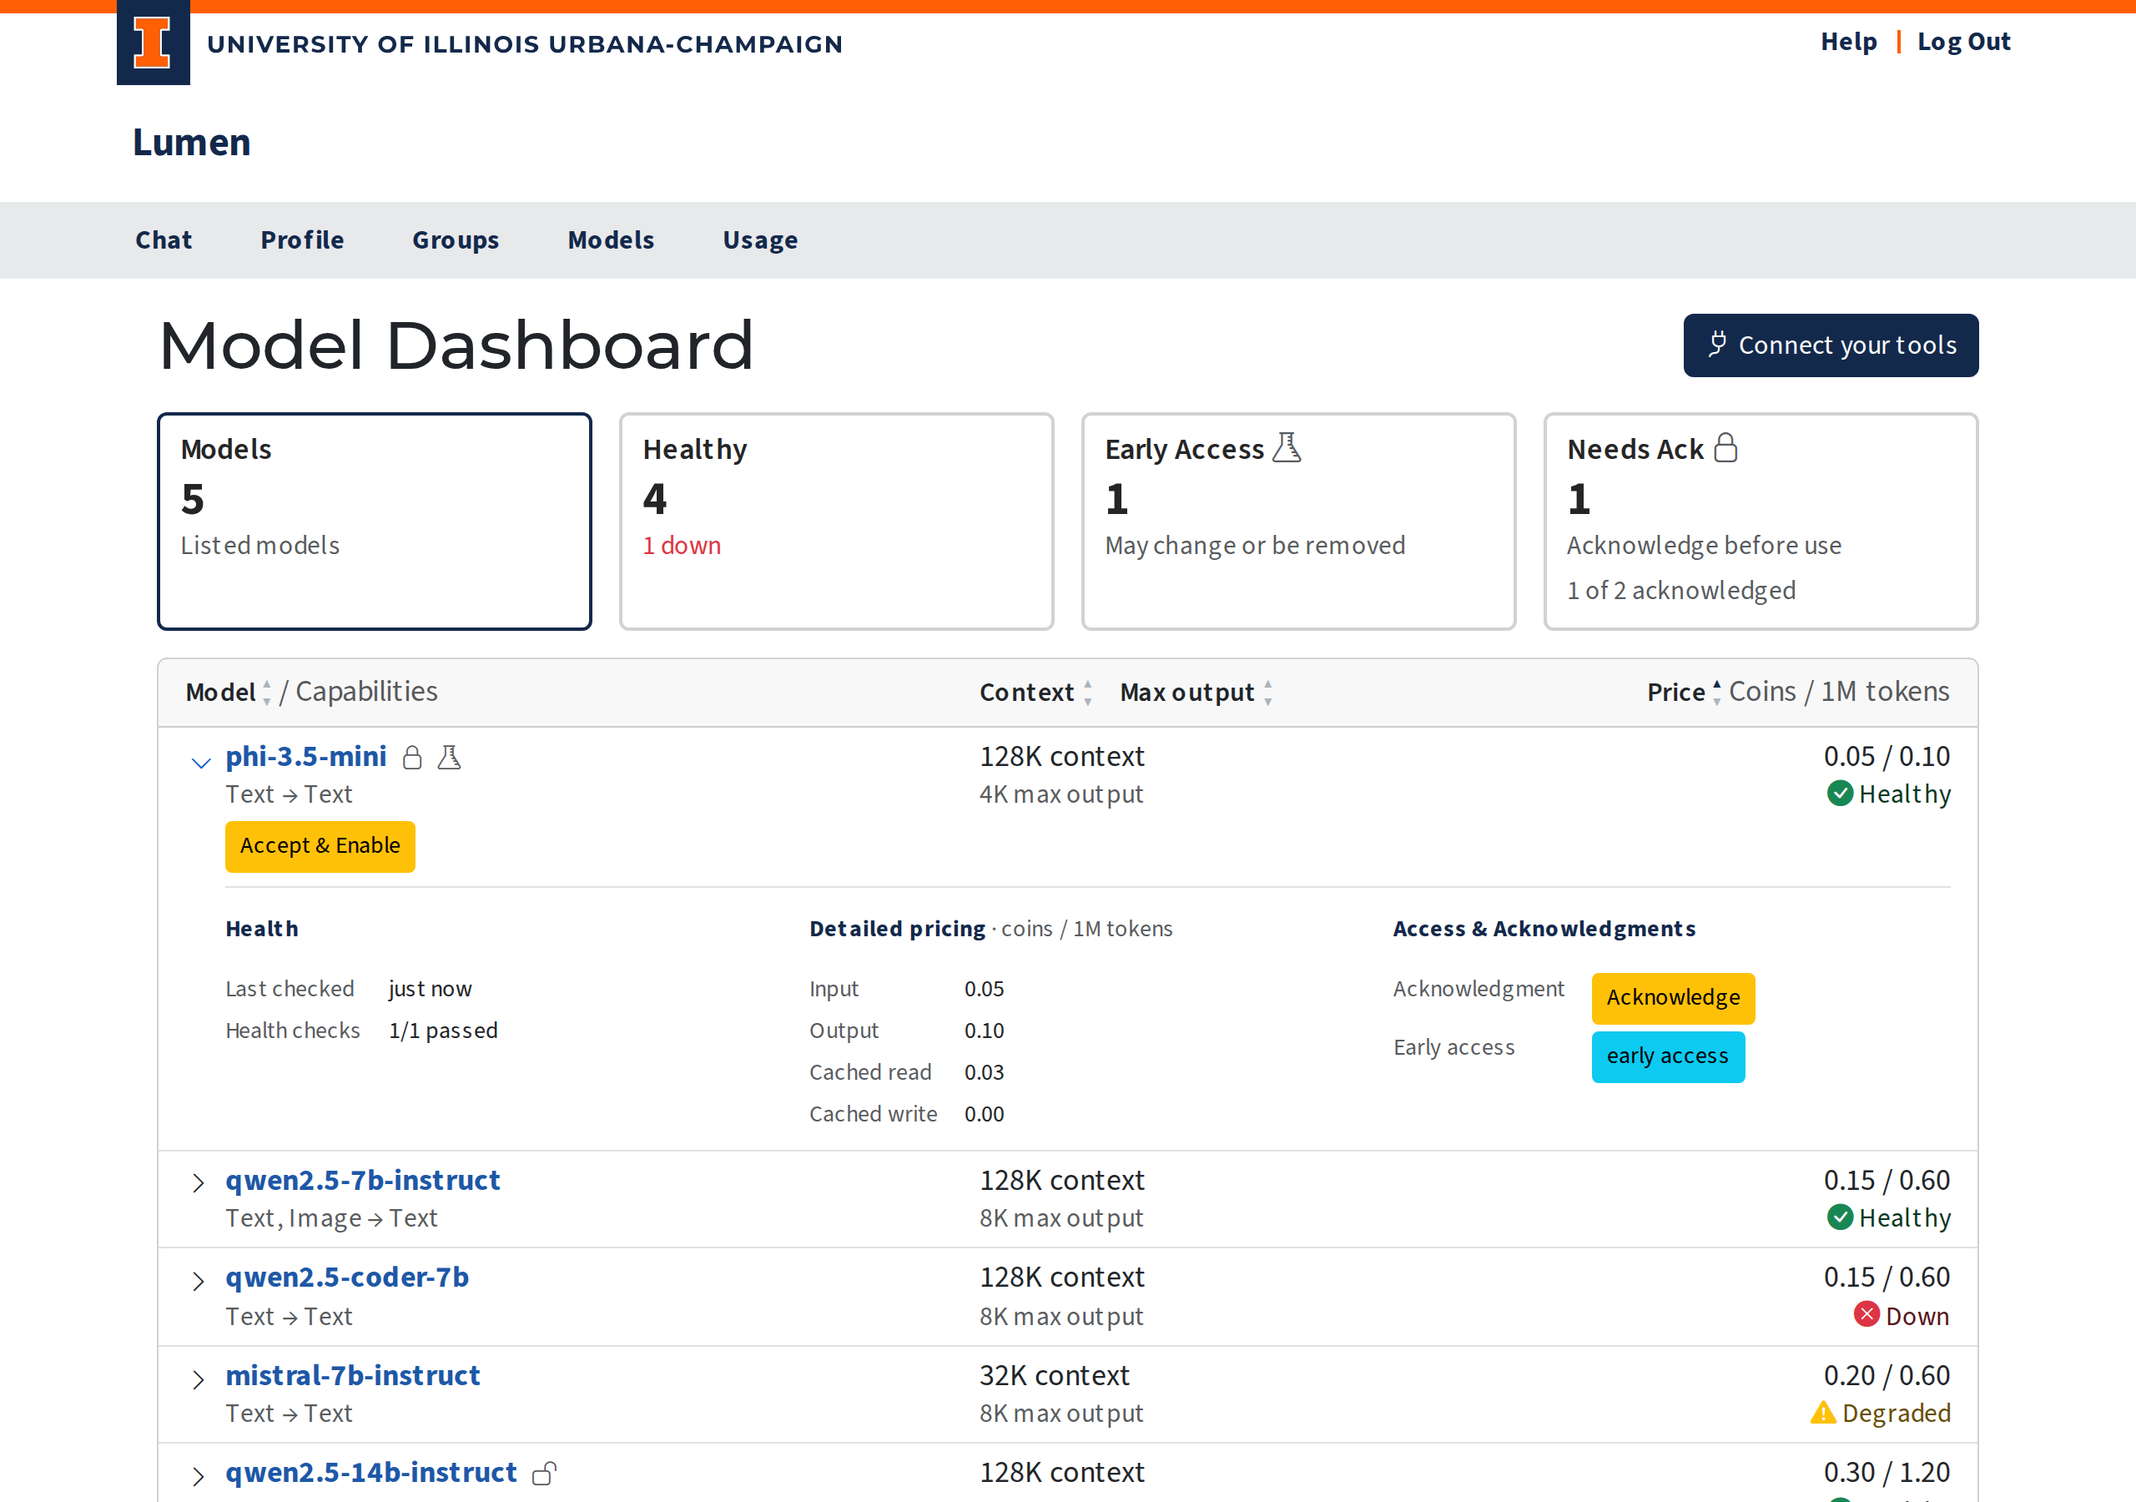
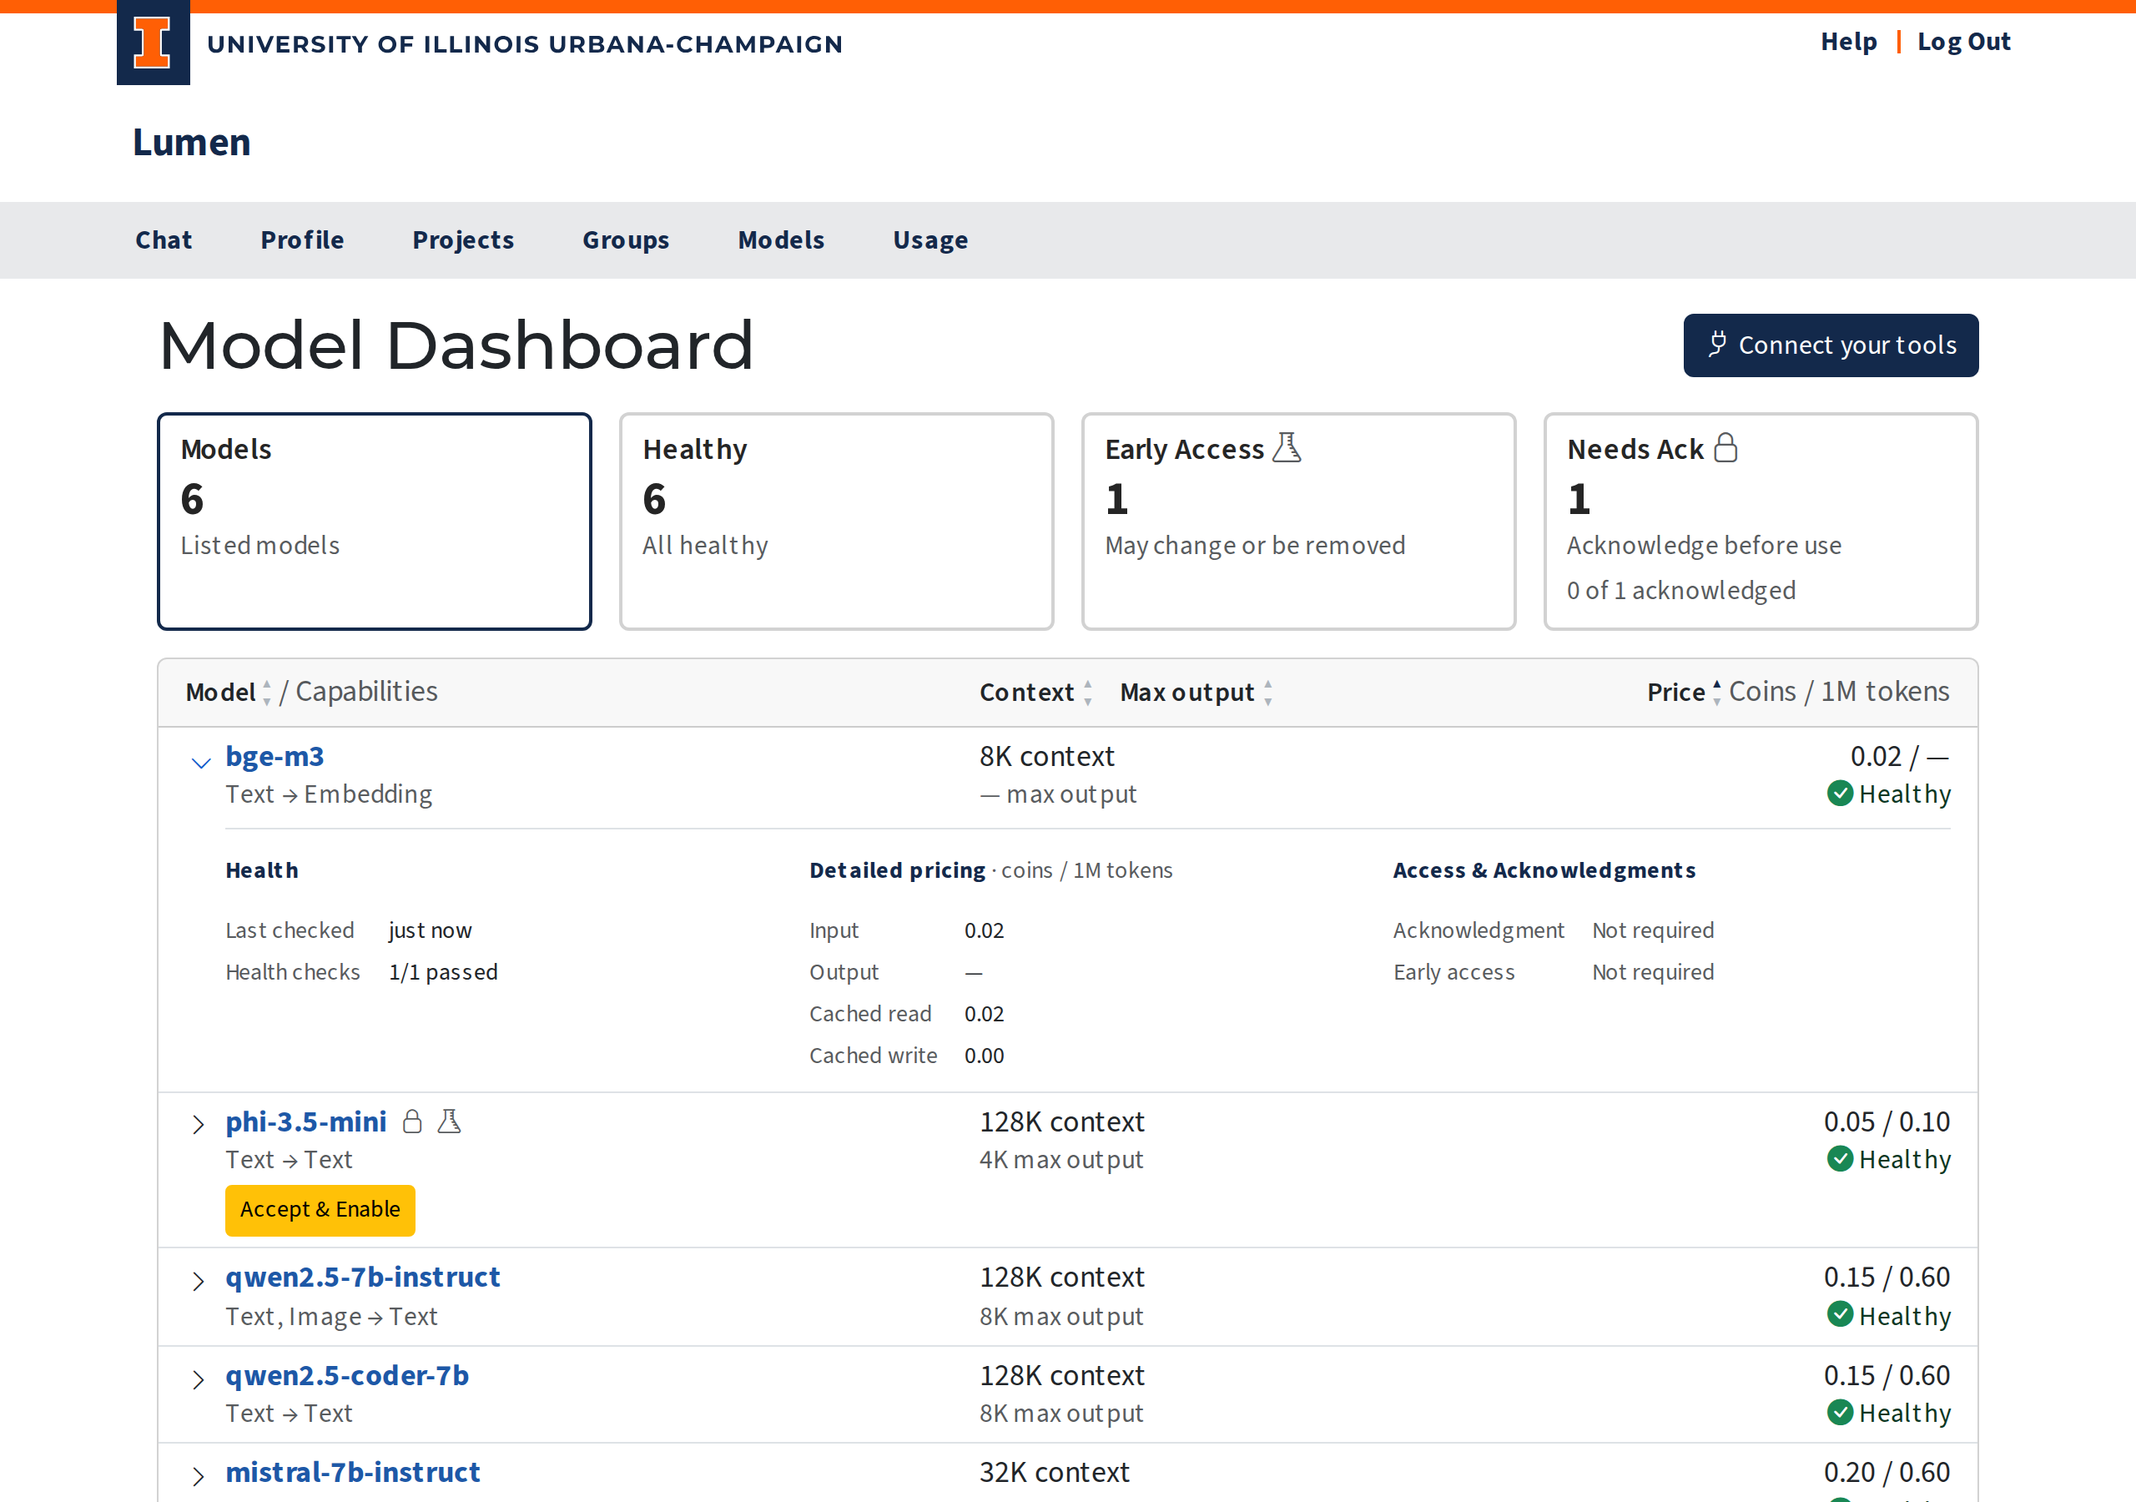
Show a dash as the output price of embedding models (#751)
* Show a dash as the output price of embedding models

The models page row, its Detailed pricing panel and the model detail
page's Pricing card show an em dash instead of the output price for an
embedding model, with visually-hidden "no output price" text for screen
readers. The price sort still uses the stored price, which is always 0.

The docs describe the dash and how such a model sorts, the screenshot
config gains an embedding model, and models.png is re-captured with it.

Fixes #741

* Make the price sort test depend on the output price

The text model is renamed a-text-model, so name order puts it first and
only the output price tie-break puts the embedding model ahead.

Fixes #741

diff --git a/lumen/templates/models.html b/lumen/templates/models.html
@@ -134,7 +134,12 @@
           <div class="text-muted small model-max-output">{{ token_count(config.max_output_tokens) }} max output</div>
         </div>
         <div class="text-end model-row-side">
+          {#- An embedding model produces no output tokens: its output price is always 0 and shows a dash (#741). -#}
+          {%- if is_embedding_model(config) %}
+          <div class="model-price text-nowrap">{{ "%.2f"|format(config.input_cost_per_million | float) }}<span aria-hidden="true"> / &mdash;</span><span class="visually-hidden"> coins per 1M input tokens, no output price</span></div>
+          {%- else %}
           <div class="model-price text-nowrap">{{ "%.2f"|format(config.input_cost_per_million | float) }} / {{ "%.2f"|format(config.output_cost_per_million | float) }}<span class="visually-hidden"> coins per 1M input / output tokens</span></div>
+          {%- endif %}
           <div class="model-health small text-nowrap" data-health="{{ status }}">
             {%- if status == "ok" %}<i class="bi bi-check-circle-fill text-success" aria-hidden="true"></i> <span class="text-success-emphasis">Healthy</span>
             {%- elif status == "degraded" %}<i class="bi bi-exclamation-triangle-fill text-warning" aria-hidden="true"></i> <span class="text-warning-emphasis">Degraded</span>
@@ -167,7 +172,7 @@
             {% set cache_write = config.cache_write_cost_per_million if config.cache_write_cost_per_million is not none else 0 %}
             <dl class="model-panel-list model-pricing mb-0">
               <dt>Input</dt><dd>{{ "%.2f"|format(config.input_cost_per_million | float) }}</dd>
-              <dt>Output</dt><dd>{{ "%.2f"|format(config.output_cost_per_million | float) }}</dd>
+              <dt>Output</dt><dd>{% if is_embedding_model(config) %}<span aria-hidden="true">&mdash;</span><span class="visually-hidden">no output price</span>{% else %}{{ "%.2f"|format(config.output_cost_per_million | float) }}{% endif %}</dd>
               <dt>Cached read</dt><dd>{{ "%.2f"|format(cache_read | float) }}</dd>
               <dt>Cached write</dt><dd>{{ "%.2f"|format(cache_write | float) }}</dd>
             </dl>

diff --git a/lumen/templates/model_detail.html b/lumen/templates/model_detail.html
@@ -267,7 +267,8 @@
                 </tr>
                 <tr>
                   <th scope="row" class="text-muted fw-normal ps-3">Output</th>
-                  <td class="text-end pe-3">{{ "%.2f"|format(config.output_cost_per_million | float) }} / 1M</td>
+                  {#- An embedding model produces no output tokens, so its output price (always 0) shows a dash (#741). -#}
+                  <td class="text-end pe-3">{% if is_embedding_model(config) %}<span aria-hidden="true">&mdash;</span><span class="visually-hidden">no output price</span>{% else %}{{ "%.2f"|format(config.output_cost_per_million | float) }} / 1M{% endif %}</td>
                 </tr>
                 {% if config.cache_write_cost_per_million is not none %}
                 <tr>

diff --git a/tests/routes/test_models_routes.py b/tests/routes/test_models_routes.py
@@ -492,3 +492,70 @@ def test_model_detail_sanitises_notices(app, auth_client):
         assert block.find("strong").get_text() == "Bold"
         assert block.find("a", href="https://example.edu/docs") is not None
         assert [li.get_text() for li in block.find_all("li")] == ["one", "two"]
+
+
+def _visible_text(tag):
+    """Text a sighted user sees: the tag's text without its visually-hidden parts."""
+    tag = BeautifulSoup(str(tag), "html.parser")
+    for hidden in tag.find_all(class_="visually-hidden"):
+        hidden.decompose()
+    return " ".join(tag.get_text().split())
+
+
+def _pricing_output_cell(html_bytes):
+    """The Output price cell of the detail page's Pricing table."""
+    soup = BeautifulSoup(html_bytes, "html.parser")
+    table = soup.find("caption", string="Model pricing per million tokens").parent
+    return table.find("th", string="Output").parent.find("td")
+
+
+def _add_embedding_and_text_models(app):
+    with app.app_context():
+        from lumen.extensions import db
+        from lumen.models.model_config import ModelConfig
+        db.session.add_all([
+            ModelConfig(model_name="embed-model", input_cost_per_million=1.0, output_cost_per_million=0,
+                        output_modalities=["embedding"]),
+            ModelConfig(model_name="a-text-model", input_cost_per_million=1.0, output_cost_per_million=2.0,
+                        output_modalities=["text"]),
+        ])
+        db.session.commit()
+
+
+def test_models_embedding_model_shows_dash_for_output_price(app, auth_client):
+    _add_embedding_and_text_models(app)
+    resp = auth_client.get("/models")
+    assert resp.status_code == HTTPStatus.OK
+
+    embed = _row_for(resp.data, "embed-model")
+    price = embed.find(class_="model-price")
+    assert _visible_text(price) == "1.00 / —"
+    assert "no output price" in price.get_text()
+    embed_dds = embed.find("dl", class_="model-pricing").find_all("dd")
+    assert _visible_text(embed_dds[1]) == "—"
+    assert embed_dds[1].find(class_="visually-hidden").get_text() == "no output price"
+    # The sort attribute keeps the stored price, which is always 0 for an embedding model.
+    assert float(embed["data-sort-output"]) == 0
+
+    text = _row_for(resp.data, "a-text-model")
+    assert _visible_text(text.find(class_="model-price")) == "1.00 / 2.00"
+    assert text.find("dl", class_="model-pricing").find_all("dd")[1].get_text(strip=True) == "2.00"
+
+
+def test_model_detail_embedding_model_shows_dash_for_output_price(app, auth_client):
+    _add_embedding_and_text_models(app)
+
+    td = _pricing_output_cell(auth_client.get("/models/embed-model").data)
+    assert _visible_text(td) == "—"
+    assert "/ 1M" not in td.get_text()
+    assert td.find(class_="visually-hidden").get_text() == "no output price"
+
+    assert _pricing_output_cell(auth_client.get("/models/a-text-model").data).get_text(strip=True) == "2.00 / 1M"
+
+
+def test_models_price_sort_puts_embedding_model_first_at_equal_input_price(app, auth_client):
+    _add_embedding_and_text_models(app)
+    soup = BeautifulSoup(auth_client.get("/models?sort=price&dir=asc").data, "html.parser")
+    order = [r["data-model"] for r in soup.find_all("li", class_="model-row")]
+    # By name a-text-model comes first, so only the output price (0 < 2) puts the embedding model ahead.
+    assert order.index("embed-model") < order.index("a-text-model")

diff --git a/lumen/blueprints/models_page/routes.py b/lumen/blueprints/models_page/routes.py
@@ -9,7 +9,7 @@ from sqlalchemy import select
 from lumen.decorators import login_required
 from lumen.extensions import db
 from lumen.models.entity_model_consent import EntityModelConsent
-from lumen.models.model_config import ModelConfig
+from lumen.models.model_config import ModelConfig, is_embedding_model
 from lumen.models.model_endpoint import ModelEndpoint
 from lumen.services import request_rates
 from lumen.services.llm import _consent_satisfied, bulk_model_access_statuses, consent_rows, get_model_access_status, model_notices
@@ -150,6 +150,7 @@ def index():
         name_rank=name_rank,
         token_count=_token_count,
         modalities=_modalities,
+        is_embedding_model=is_embedding_model,
     )
 
 
@@ -265,6 +266,7 @@ def detail(model_name):
         model_notice=config.notice,
         ack_notice=ack_notice,
         early_access_notice=early_access_notice if access_status == "needs_ack" else None,
+        is_embedding_model=is_embedding_model,
     )
 
 

diff --git a/docs/models/models.md b/docs/models/models.md
@@ -51,7 +51,7 @@ The buttons above the list sort it. Click a button (or tab to it and press Enter
 | **Max output** | Most tokens per response | Largest first |
 | **Price** | Input price, then output price | Cheapest first |
 
-**Price** sorts by the input price; models with the same input price are ordered by their output price. A model with no context window or max output for the sorted column (shown as a dash) always comes last, in both directions, and models with equal values are listed by name.
+**Price** sorts by the input price; models with the same input price are ordered by their output price. A model with no context window or max output for the sorted column (shown as a dash) always comes last, in both directions, and models with equal values are listed by name. An embedding model's output price shows a dash but is 0, so it sorts as 0: first among models with the same input price when sorting cheapest first.
 
 Sorting keeps the active card filter and an open row, which moves with its model. The page address remembers the order (for example `/models?sort=price&dir=asc`) next to the active card, so reloading or sharing the link shows the same order. The `sort` values are `name`, `context`, `max_output` and `price`, and `dir` is `asc` or `desc`; a `sort` without `dir` uses the direction listed above. Without `sort`, or with any other value, the list is sorted by name A to Z.
 
@@ -64,7 +64,7 @@ Each model is one row with three columns. Without opening it, a row shows:
   - **Modalities** — what the model accepts and produces, as input → output (e.g. `Text, Image → Text`). A dash means the instance hasn't published that information.
   - **Acknowledgment button** — a model with a pending requirement shows one button under its modalities: **Acknowledge** (yellow) when you still have to accept its terms, **early access** (blue) when you still have to accept early access, or **Accept & Enable** (yellow) when both are pending. The button opens the [acknowledgment dialog](#access-acknowledgments) without expanding the row.
 - **Context** and **Max output** — the model's context window (e.g. `128K context`) and, below it, the most tokens it can generate per response (e.g. `8K max output`). Round decimal values are shown in 1000-based units (`128K` for 128,000 tokens); everything else is 1024-based (`128K` for 131,072 tokens). A dash means the value is not set.
-- **Coins / 1M tokens** — the price per million input / output tokens (e.g. `1.00 / 2.00`), with the model's health (see below) under it.
+- **Coins / 1M tokens** — the price per million input / output tokens (e.g. `1.00 / 2.00`), with the model's health (see below) under it. An embedding model produces no output tokens, so its output price shows a dash (e.g. `0.10 / —`).
 
 On a phone the token limits move under the model name, next to the price.
 
@@ -84,7 +84,7 @@ The **Healthy** card counts **Degraded** models too, because they still answer r
 Click anywhere on a row (or tab to the arrow at its start and press Enter or Space) to open the model's details; clicking the model name still opens its detail page. Only one row is open at a time: opening another row closes the previous one. The details show:
 
 - **Health** — **Last checked**: how long ago the most recent health check ran (e.g. `5 min. ago`); hover over or tab to it for the full date and time. It updates every minute while the page is open. **Never** means no check has run yet. **Health checks**: how many of the model's backends passed their last check out of the total configured (e.g. `2/4 passed`).
-- **Detailed pricing** — coins per million tokens for **Input**, **Output**, **Cached read** and **Cached write**. A cache-read rate the model does not configure is billed at the input price and a cache-write rate at 0, so these always show what you are actually charged.
+- **Detailed pricing** — coins per million tokens for **Input**, **Output**, **Cached read** and **Cached write**. A cache-read rate the model does not configure is billed at the input price and a cache-write rate at 0, so these always show what you are actually charged. An embedding model shows a dash (`—`) for **Output**, because it produces no output tokens.
 - **Access & Acknowledgments** — see below.
 
 ## Access & Acknowledgments

diff --git a/docs/models/model-detail.md b/docs/models/model-detail.md
@@ -78,4 +78,4 @@ Technical details that help you decide if this model fits your task:
 
 #### Pricing
 
-Shows the coin cost per million input tokens and per million output tokens, plus "Cached input" when the model sets it and "Cache write", which is always shown. Cached input is charged at its own rate when the model sets one, otherwise at the input rate; cache writes are charged at their own rate when the model sets one, otherwise they are free (0.00). See the [Introduction](../introduction.md#tokens-and-coins) for how coin costs are calculated.
+Shows the coin cost per million input tokens and per million output tokens, plus "Cached input" when the model sets it and "Cache write", which is always shown. Cached input is charged at its own rate when the model sets one, otherwise at the input rate; cache writes are charged at their own rate when the model sets one, otherwise they are free (0.00). An embedding model produces no output tokens, so its output price shows a dash (`—`). See the [Introduction](../introduction.md#tokens-and-coins) for how coin costs are calculated.

diff --git a/CHANGELOG.md b/CHANGELOG.md
@@ -8,6 +8,10 @@ All notable changes to Lumen will be documented in this file.
 
 - `lumen.sh` adds `--aliases` and remembers the `--aliases`/`--no-aliases` choice in `config.ini` as `aliases = true/false`. (#734)
 
+### Changed
+
+- Embedding models always have an output price of 0: the config editor locks the field, and the models page and the model detail page show `—`. (#741)
+
 ## [2.5.0] - 2026-11-21
 
 **Upgrade:** speech-to-text models must have `audio` in `input_modalities` (the **audio** input box in the config editor, or `config.yaml`), or `/v1/audio/transcriptions` and `/v1/audio/translations` return 400. `/v1/chat/completions`, `/v1/completions`, `/v1/messages` and `/v1/audio/*` also return 400 for models marked as embedding (`output_modalities: ["embedding"]`) instead of forwarding the call to the backend. An unset `cache_write_cost_per_million` now bills cache writes at 0 instead of the input price; set it explicitly to keep the 2.4.0 charge. (#678, #721)
